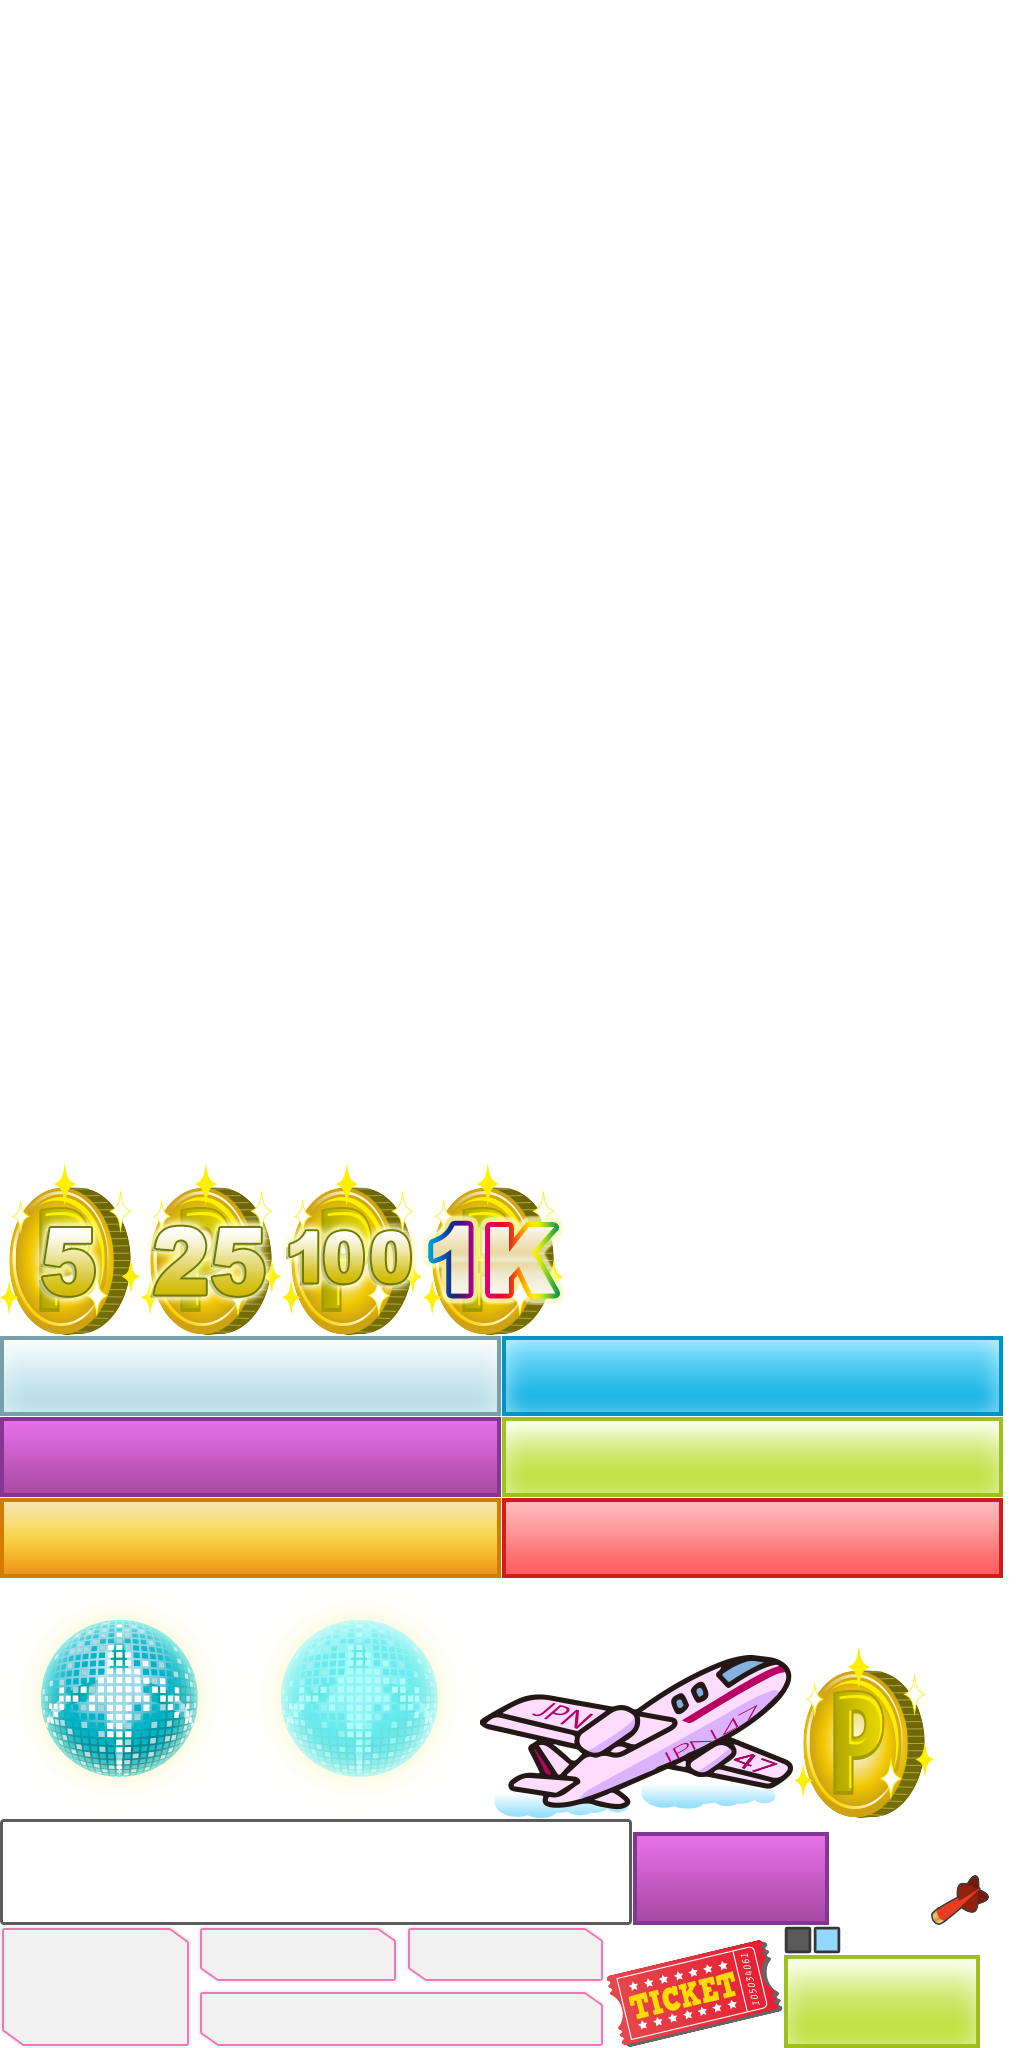
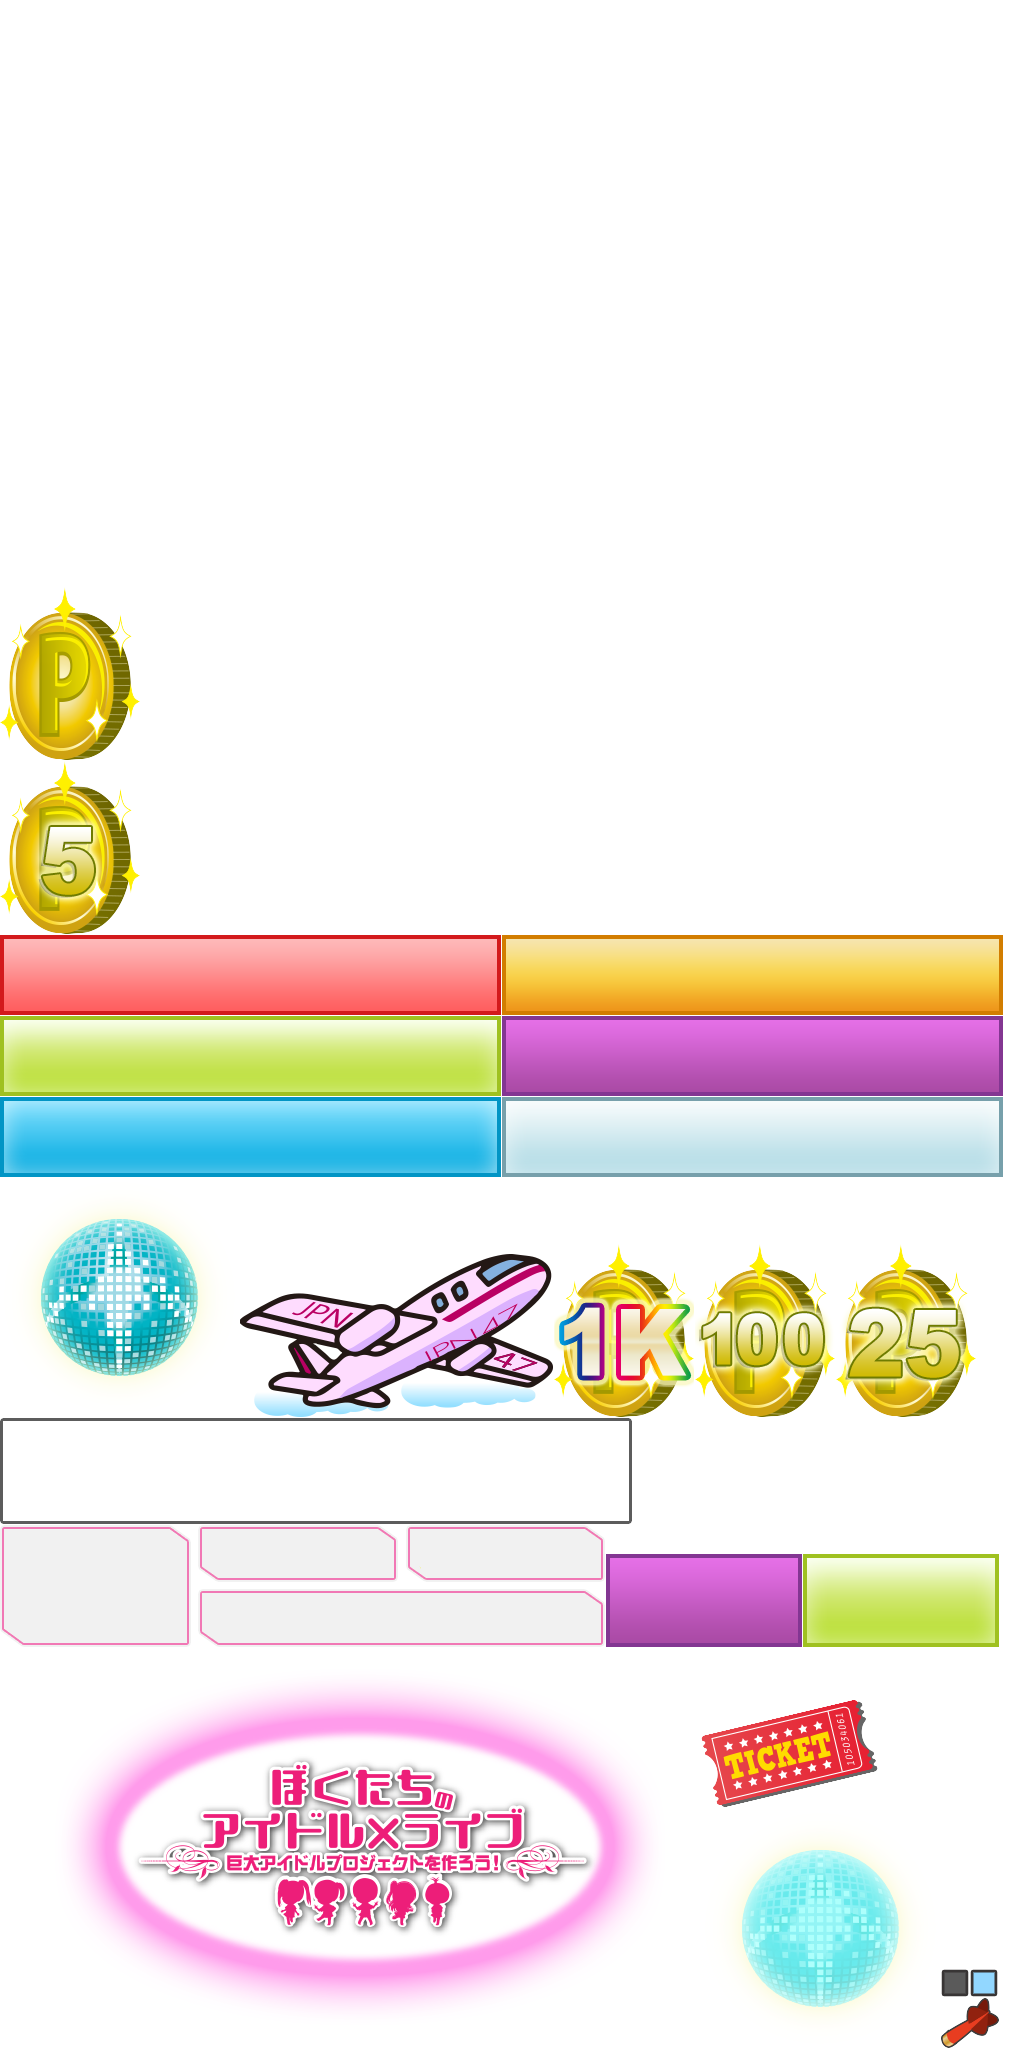
ダイアログ背景を変更開始

diff --git a/Assets/Scripts/Manager/LiveManager.cs b/Assets/Scripts/Manager/LiveManager.cs
@@ -6,9 +6,9 @@ public class LiveManager : MonoSingleton<LiveManager> {
 
 	public GameObject[] curtainArray;
 	public GameObject[] ballArray;
-	public GameObject label;
 	public GameObject ballParent;
 	public GameObject curtainHeadObject;
+	public GameObject logoObject;
 
 	private float mTime;
 	private bool mLive;
@@ -77,9 +77,9 @@ public class LiveManager : MonoSingleton<LiveManager> {
 		foreach (StageManager stageManager in stageManagerList) {
 			stageManager.StartLive ();
 		}
-
-		label.GetComponent<UILabel> ().text = "会いたくて\n会いたくて\n君に逢いたくて\nこの胸が\nときめくの\n君のせいだから";
-		label.GetComponent<TypewriterEffect> ().ResetToBeginning ();
+		logoObject.SetActive (true);
+		logoObject.GetComponent<UISprite> ().alpha = 0;
+		TweenAlpha.Begin (logoObject,3.0f,1f);
 		SoundManager.instance.PlayBGM (SoundManager.BGM_CHANNEL.Live);
 		Invoke ("OpenCurtain",12.3f);
 		Invoke ("OpenBall",7.0f);
@@ -89,6 +89,7 @@ public class LiveManager : MonoSingleton<LiveManager> {
 		mLive = false;
 		iTweenEvent.GetEvent (mirrorBallSpriteObject,"LiveFinishEvent").Play();
 		iTweenEvent.GetEvent (ballParent,"RotateEvent").Stop();
+		iTweenEvent.GetEvent (spinTextureObject,"LiveStartEvent").Stop();
 		ballParent.transform.localEulerAngles = new Vector3 (0,0,0);
 		List<StageManager> stageManagerList = StageGridManager.instance.StageManagerList;
 		foreach (StageManager stageManager in stageManagerList) {
@@ -100,6 +101,7 @@ public class LiveManager : MonoSingleton<LiveManager> {
 	}
 
 	private void OpenCurtain(){
+		logoObject.SetActive (false);
 		FenceManager.instance.HideFence ();
 		foreach(GameObject curtain in curtainArray){
 			iTweenEvent.GetEvent (curtain,"OpenEvent").Play();
@@ -124,7 +126,6 @@ public class LiveManager : MonoSingleton<LiveManager> {
 					foreach(GameObject ballObject in ballArray){
 						iTweenEvent.GetEvent (ballObject,"CenterEvent").Play();
 					}
-					label.GetComponent<UILabel> ().text = "";
 				}
 				break;
 			}
